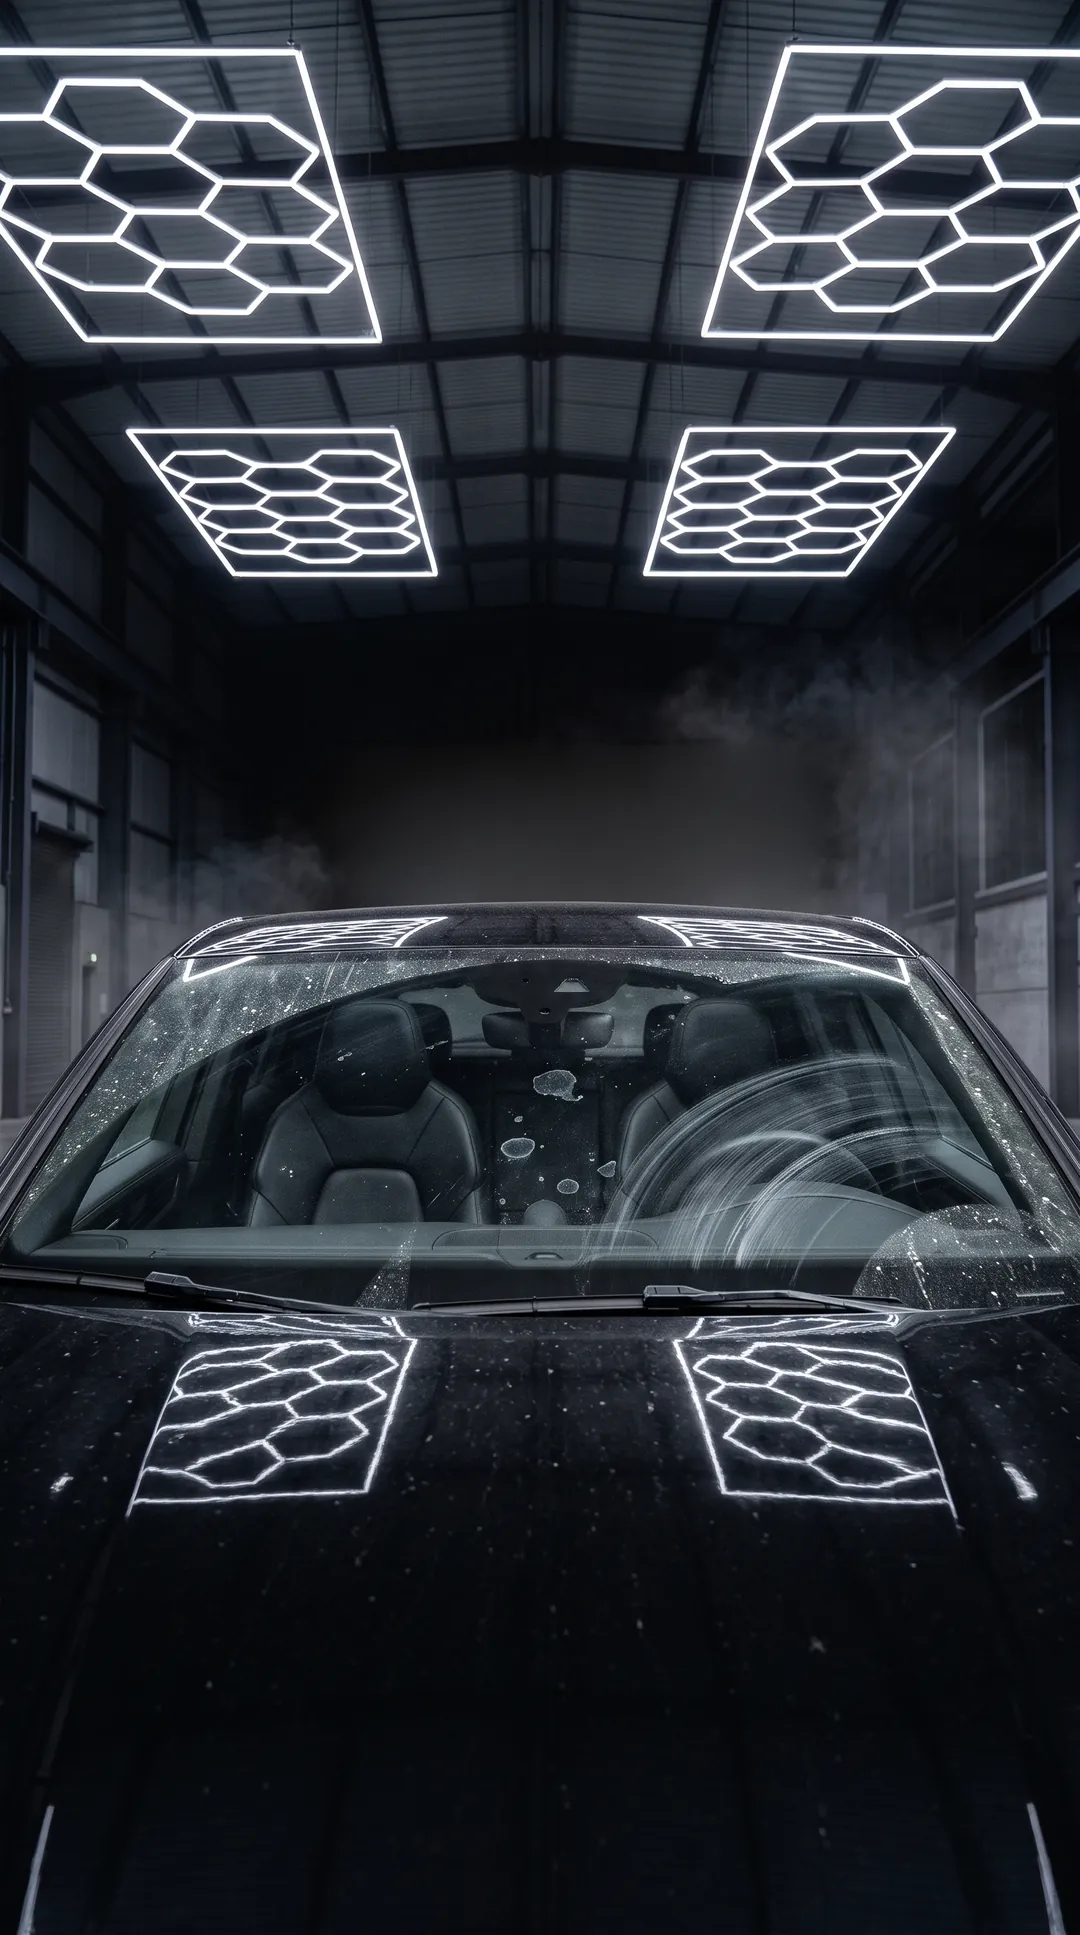
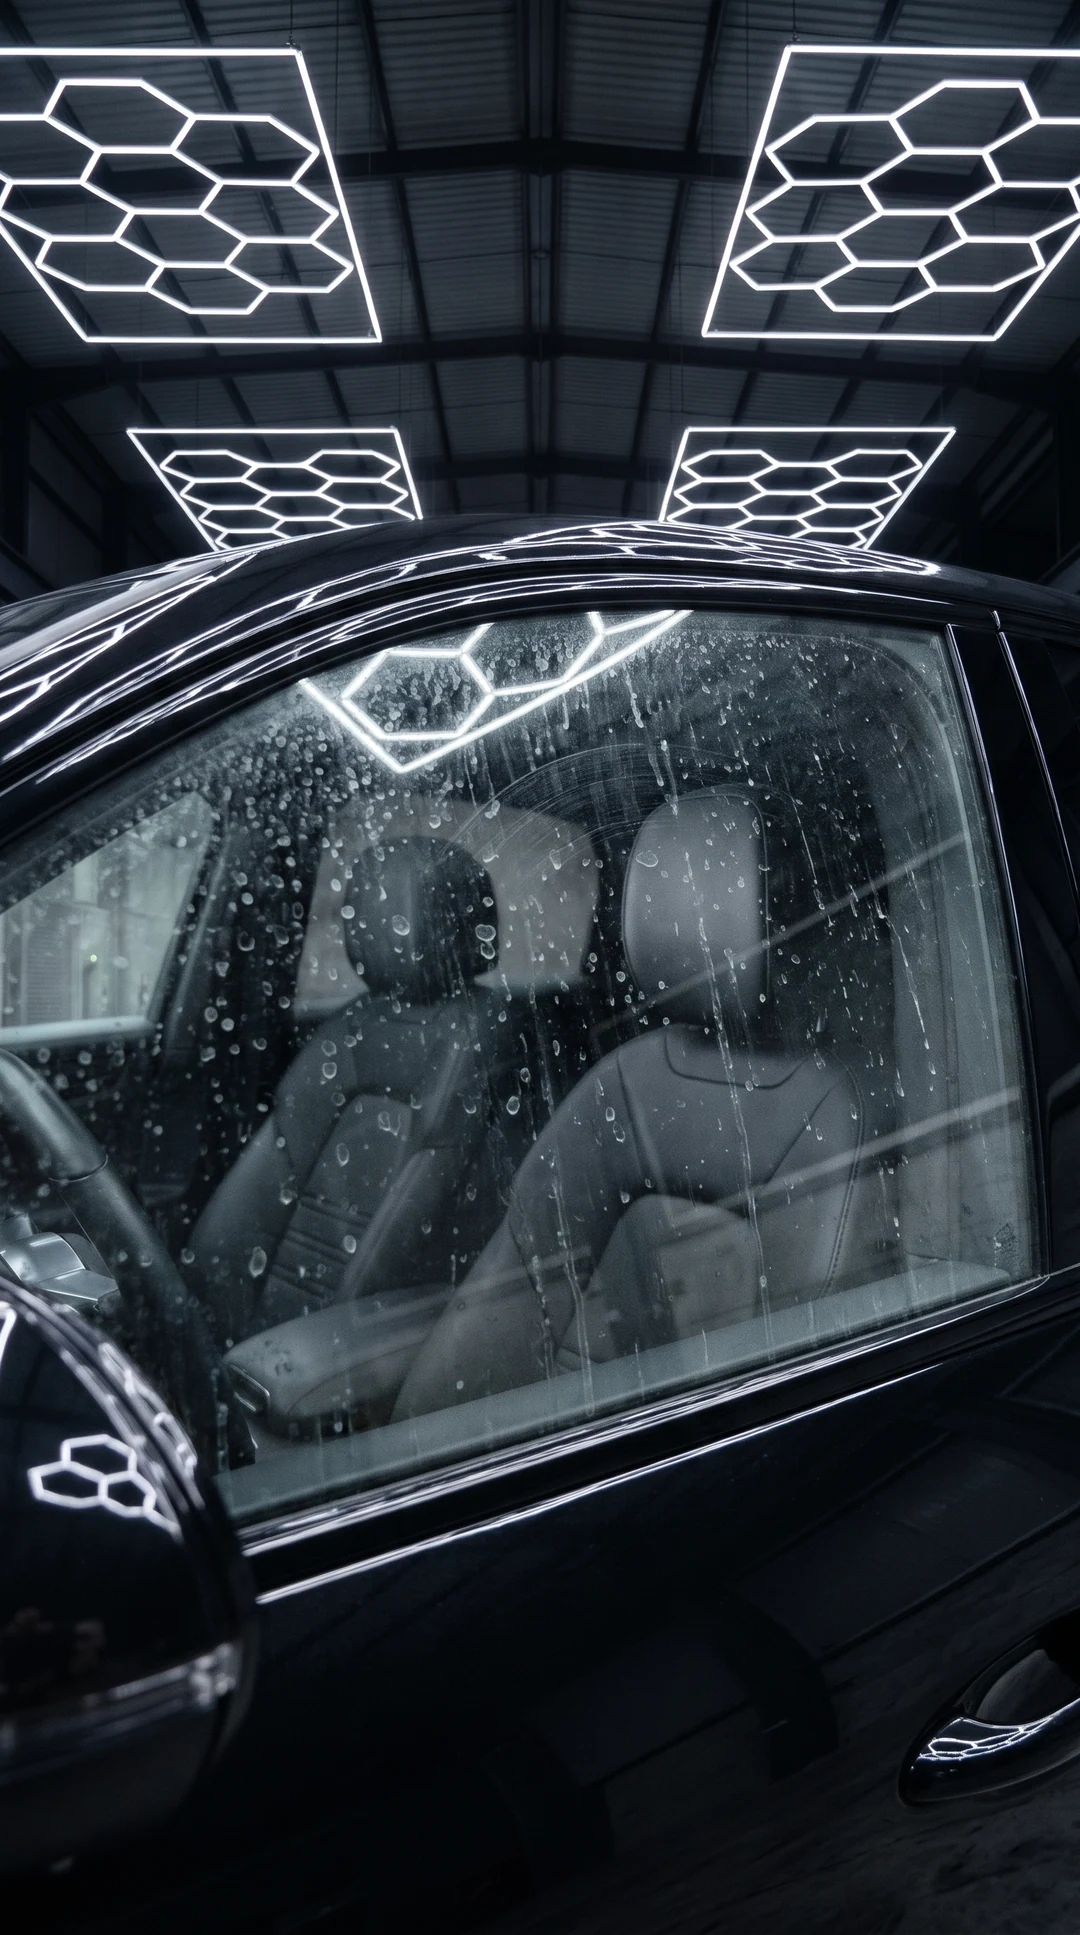
Limpieza con recorrido por el interior (premium: asientos y puertas; integral: + suelo y techo) y fotos nuevas de cinturones, plásticos hidratados y cristales en la ventanilla

diff --git a/index.html b/index.html
@@ -976,6 +976,13 @@ h1 { font-weight: 800; font-size: 22px; line-height: 1.1; letter-spacing: .01em;
 .book-nav .btn { width: 44px; height: 44px; min-height: 0; padding: 0; border-radius: 50%; font-size: 22px; }
 .book-nav .btn:disabled { opacity: .3; cursor: default; }
 @media (prefers-reduced-motion: reduce) { .book, .book:not(.open) { transform: none; transition: none; } }
+
+/* Recorrido de la limpieza (exterior → asientos → puertas → suelo → techo): pasos tocables */
+#phone .subs.tour { flex-wrap: nowrap; overflow-x: auto; scrollbar-width: none; gap: 4px; }
+#phone .subs.tour::-webkit-scrollbar { display: none; }
+#phone .subs.tour button { flex: none; height: 30px; padding: 0 11px; font-size: 9.5px; letter-spacing: .1em; }
+#phone .subs.tour button.done span::before { content: "✓ "; color: #ff4d5e; }
+#phone .subs.tour button[aria-pressed="true"].done span::before { color: #fff; }
 /* En un móvil la web ocupa SIEMPRE todo el ancho. Antes el ancho se limitaba a la mitad del alto, y con la barra
    del navegador (o en móviles más anchos) quedaban franjas negras a los lados. */
 @media (max-width: 600px), (pointer: coarse) and (orientation: portrait) { .phone { width: 100%; } }
@@ -1270,7 +1277,7 @@ h1 { font-weight: 800; font-size: 22px; line-height: 1.1; letter-spacing: .01em;
 <script>
 (() => {
   // IMGV: súbelo cada vez que cambien fotos con el mismo nombre, para que el navegador no enseñe las viejas de su caché
-  const IMGV = 2;
+  const IMGV = 3;
   const img = n => `img/${n}.webp?v=${IMGV}`;
   const W = 'https://wa.me/34643182964?text=';
   const SUCIO = '01-intro_porsche_sucio', LIMPIO = '00-base_porsche_limpio';
@@ -1306,6 +1313,9 @@ h1 { font-weight: 800; font-size: 22px; line-height: 1.1; letter-spacing: .01em;
     ]},
     extras: { label: 'Extras', groups: ['Interior', 'Exterior', 'Si hace falta'], serv: true, clip: 'extras', opts: [] },
   };
+  // Premium e integral: después del exterior, la animación sigue por el interior (cada paso, su antes y su después)
+  const INT = n => ({ n: n[0].toUpperCase() + n.slice(1), a: `06-limpieza_int_${n}_antes`, b: `06-limpieza_int_${n}_despues`, frame: 'int-' + n });
+  CATS.limpieza.opts.forEach((x, k) => { if (k) x.tour = [{ n: 'Exterior', a: x.a, b: x.b, frame: x.frame }, ...(k === 1 ? ['asientos', 'puertas'] : ['asientos', 'puertas', 'suelo', 'techo']).map(INT)]; });
   CATS.limpieza.page = 'detallado'; CATS.pulido.page = 'pulido'; CATS.ceramico.page = 'ceramico'; CATS.extras.page = 'precios'; CATS.tintado.page = 'precios';
   const ZONA = { interior: 'Interior', cristales: 'Cristales', motor: 'Motor', ruedas: 'Ruedas', carroceria: 'Carrocería' };
   // fam: opciones que van juntas en un solo botón (Cuero: nutrición y coating; Hidratación: neumáticos, pasos de rueda y gomas)
@@ -1693,9 +1703,15 @@ h1 { font-weight: 800; font-size: 22px; line-height: 1.1; letter-spacing: .01em;
   const ring = (y, sz = 22) => { const r = sz / 2 - 2, c = 2 * Math.PI * r; return `<svg class="ring" viewBox="0 0 ${sz} ${sz}" aria-hidden="true"><circle cx="${sz / 2}" cy="${sz / 2}" r="${r}"/><circle class="v" cx="${sz / 2}" cy="${sz / 2}" r="${r}" stroke-dasharray="${(c * y / 7).toFixed(1)} ${c.toFixed(1)}"/></svg>`; };
   function paintSubs(C, O) {
     const box = $('subs');
+    if (O && O.tour) {
+      box.hidden = false; box.classList.add('tour');
+      box.innerHTML = O.tour.map((T, k) => `<button type="button" data-st="${k}" aria-pressed="${k === stepI}"${k < stepI || abReady ? ' class="done"' : ''}><span>${esc(T.n)}</span></button>`).join('');
+    } else {
+    box.classList.remove('tour');
     const list = !O ? [] : C.row ? C.opts.map((x, i) => [x, i]) : O.fam ? C.opts.map((x, i) => [x, i]).filter(([x]) => x.fam === O.fam) : [];
     box.hidden = !list.length;
     box.innerHTML = list.map(([x, i]) => `<button type="button" data-i="${i}" aria-pressed="${i === opt}">${x.years ? ring(x.years) : ''}<span>${esc(x.short)}</span></button>`).join('');
+    }
     // Reloj: los años de garantía del cerámico, con el anillo que se llena
     const ck = $('clock');
     ck.hidden = !(O && O.years);
@@ -1705,7 +1721,7 @@ h1 { font-weight: 800; font-size: 22px; line-height: 1.1; letter-spacing: .01em;
       v.style.strokeDasharray = `${c * O.years / 7} ${c}`;
     }
   }
-  $('subs').addEventListener('click', e => { const b = e.target.closest('[data-i]'); if (b && cat) play(cat, +b.dataset.i); });
+  $('subs').addEventListener('click', e => { const st = e.target.closest('[data-st]'); if (st) return goStep(+st.dataset.st); const b = e.target.closest('[data-i]'); if (b && cat) play(cat, +b.dataset.i); });
   // Título: texto en blanco y las palabras clave en rojo
   const PREF = { limpieza: 'Limpieza', tintado: 'Tintado' };
   const PAGES = { nosotros: 'Sobre <span class="k">nosotros</span>', precios: 'Servicios y <span class="k">precios</span>', detallado: '<span class="k">Limpieza</span>',
@@ -1764,7 +1780,7 @@ h1 { font-weight: 800; font-size: 22px; line-height: 1.1; letter-spacing: .01em;
     // (y si la animación de la opción no puede salir de lo que se ve, p. ej. de Inicio a 2 pasos, se pasa antes por su «antes»)
     const direct = !!(CATS[c].evo && prev && i !== prevI && prev.frame === O.frame) && !(O.clip && CLIPS[O.clip] && shownSrc !== CLIPS[O.clip].start && prev.clip !== O.clip)
       && !(O.fx && !O.fxAny && ![O.a, ...O.fx.map(f => f[1])].includes(shownSrc));
-    opt = i; state = direct ? 'b' : 'a'; abReady = false;
+    opt = i; state = direct ? 'b' : 'a'; abReady = false; stepI = 0;
     chrome(); paintInfo();
     q(exitSlider);
     const ck = clipOf(c);
@@ -1776,6 +1792,7 @@ h1 { font-weight: 800; font-size: 22px; line-height: 1.1; letter-spacing: .01em;
       // De un nivel al siguiente: si lo que se ve es el punto de partida de su animación (de 1 paso a 2 pasos,
       // de 2 pasos al cerámico, de un tinte a otro), se anima; si no, barrido
       await q(() => animate(O, my, i > prevI ? 1 : -1)); if (my !== token) return;
+      if (O.tour) { await runTour(O, my); if (my !== token) return; }
       abReady = true; paintAB();
       return;
     }
@@ -1785,12 +1802,31 @@ h1 { font-weight: 800; font-size: 22px; line-height: 1.1; letter-spacing: .01em;
     // El «después» llega con la herramienta trabajando (pulidora, espuma y agua, lámina, cepillo, vídeo del cerámico…)
     await q(() => animate(O, my, 1));
     if (my !== token) return;
-    abReady = true; paintAB();
+    if (O.tour) { await runTour(O, my); if (my !== token) return; }
+    abReady = true; paintAB(); if (O.tour) paintSubs(CATS[cat], O);
     if (O.slider) q(() => enterSlider(O, my));
+  }
+  // Paso del recorrido que se ve (0 = exterior); Antes / Después compara ese paso
+  let stepI = 0;
+  const pair = O => (O.tour && O.tour[stepI]) || O;
+  async function runTour(O, my) {
+    for (let k = 1; k < O.tour.length; k++) {
+      const T = O.tour[k]; stepI = k; state = 'a'; paintSubs(CATS[cat], O); paintAB();
+      await show(T.a, T.frame, 1, my); if (my !== token) return;
+      await wait(800 * tempo); if (my !== token) return;
+      state = 'b'; paintAB();
+      await show(T.b, T.frame, 1, my); if (my !== token) return;
+      await wait(500 * tempo); if (my !== token) return;
+    }
+  }
+  function goStep(k) {
+    const O = CATS[cat].opts[opt]; if (!O.tour || !abReady) return;
+    const my = ++token; stepI = k; state = 'b'; paintSubs(CATS[cat], O); paintAB();
+    const T = O.tour[k]; show(T.b, T.frame, 1, my);
   }
   function flip(s) {
     if (!abReady || s === state) return;
-    const my = ++token, O = CATS[cat].opts[opt];
+    const my = ++token, O = pair(CATS[cat].opts[opt]);
     state = s; paintAB();
     show(s === 'a' ? O.a : O.b, O.frame, s === 'a' ? -1 : 1, my);
   }
@@ -2606,7 +2642,7 @@ h1 { font-weight: 800; font-size: 22px; line-height: 1.1; letter-spacing: .01em;
   const MIN = reduce ? 0 : 2600;
   // Si el navegador tarda en decodificar las fotos grandes, la carga sigue igualmente
   const ready = im => Promise.race([im.decode().catch(() => {}), wait(1500)]);
-  const all = [...new Set([SUCIO, LIMPIO, ...Object.values(CATS).flatMap(c => c.opts.flatMap(x => [x.a, x.b]))])];
+  const all = [...new Set([SUCIO, LIMPIO, ...Object.values(CATS).flatMap(c => c.opts.flatMap(x => [x.a, x.b, ...(x.tour || []).flatMap(t => [t.a, t.b])]))])];
   let loaded = 0;
   // Los fotogramas de los clips se bajan después de las fotos, sin retrasar la bienvenida:
   // primero uno de cada 8 de cada clip, luego los intermedios, de 6 en 6
